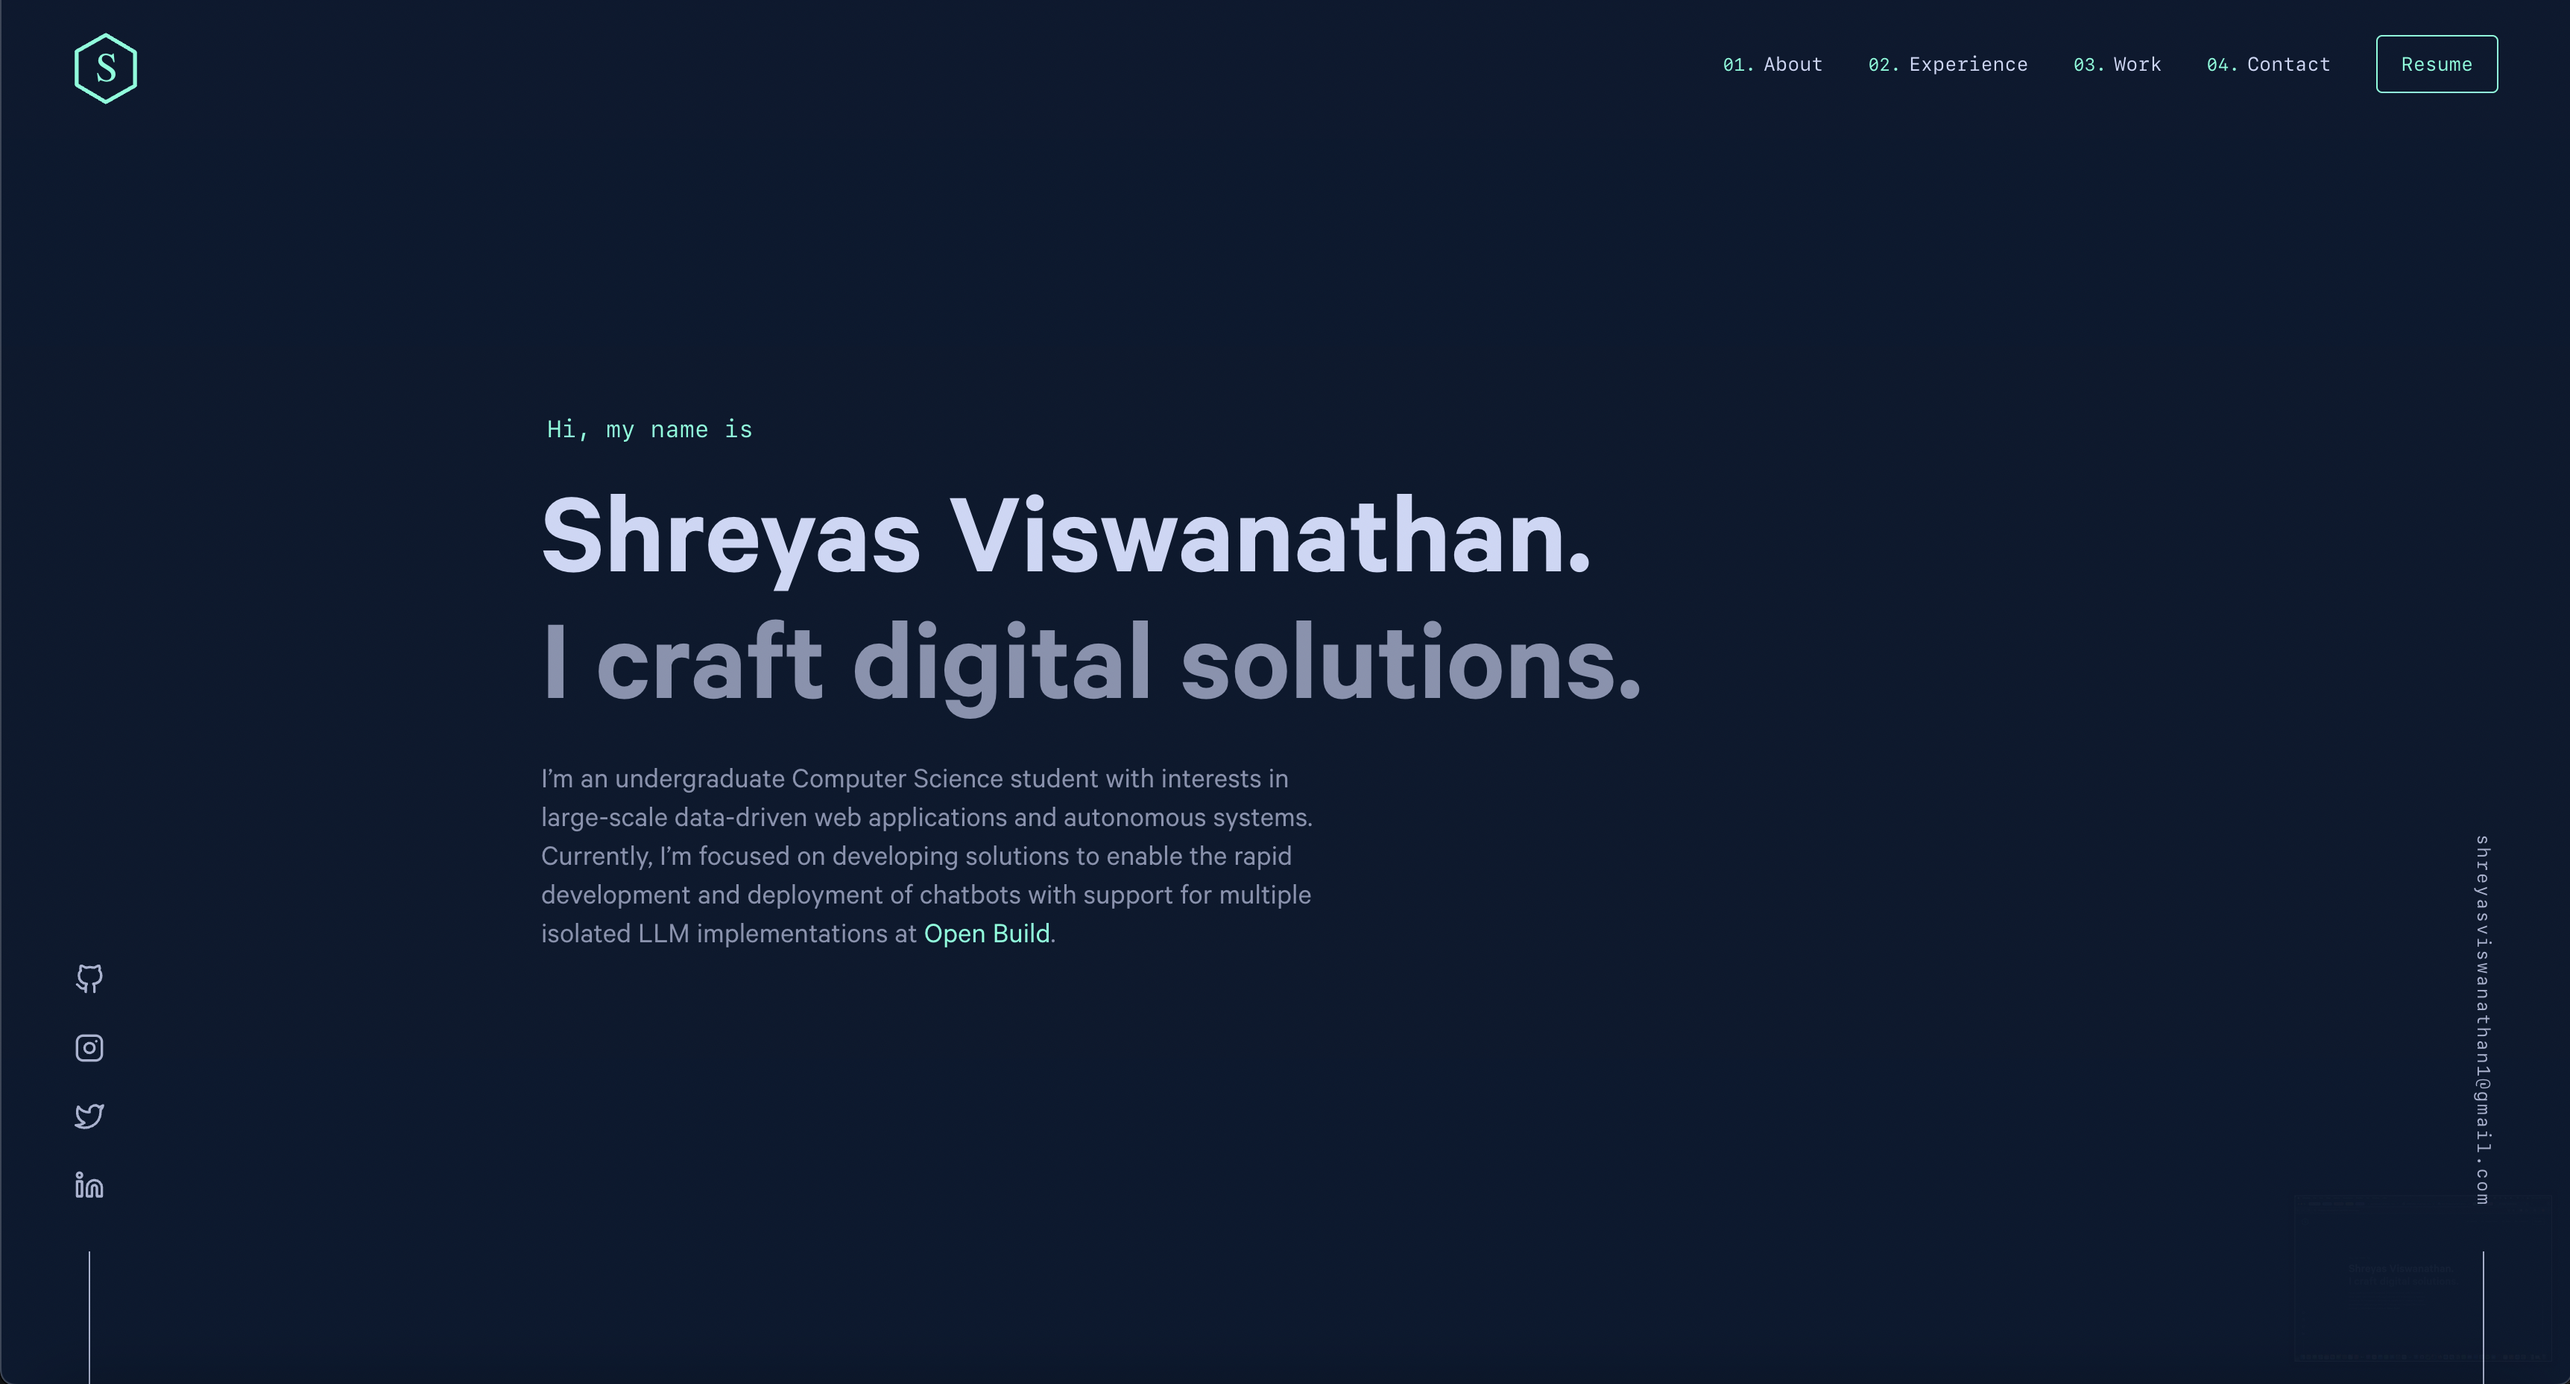
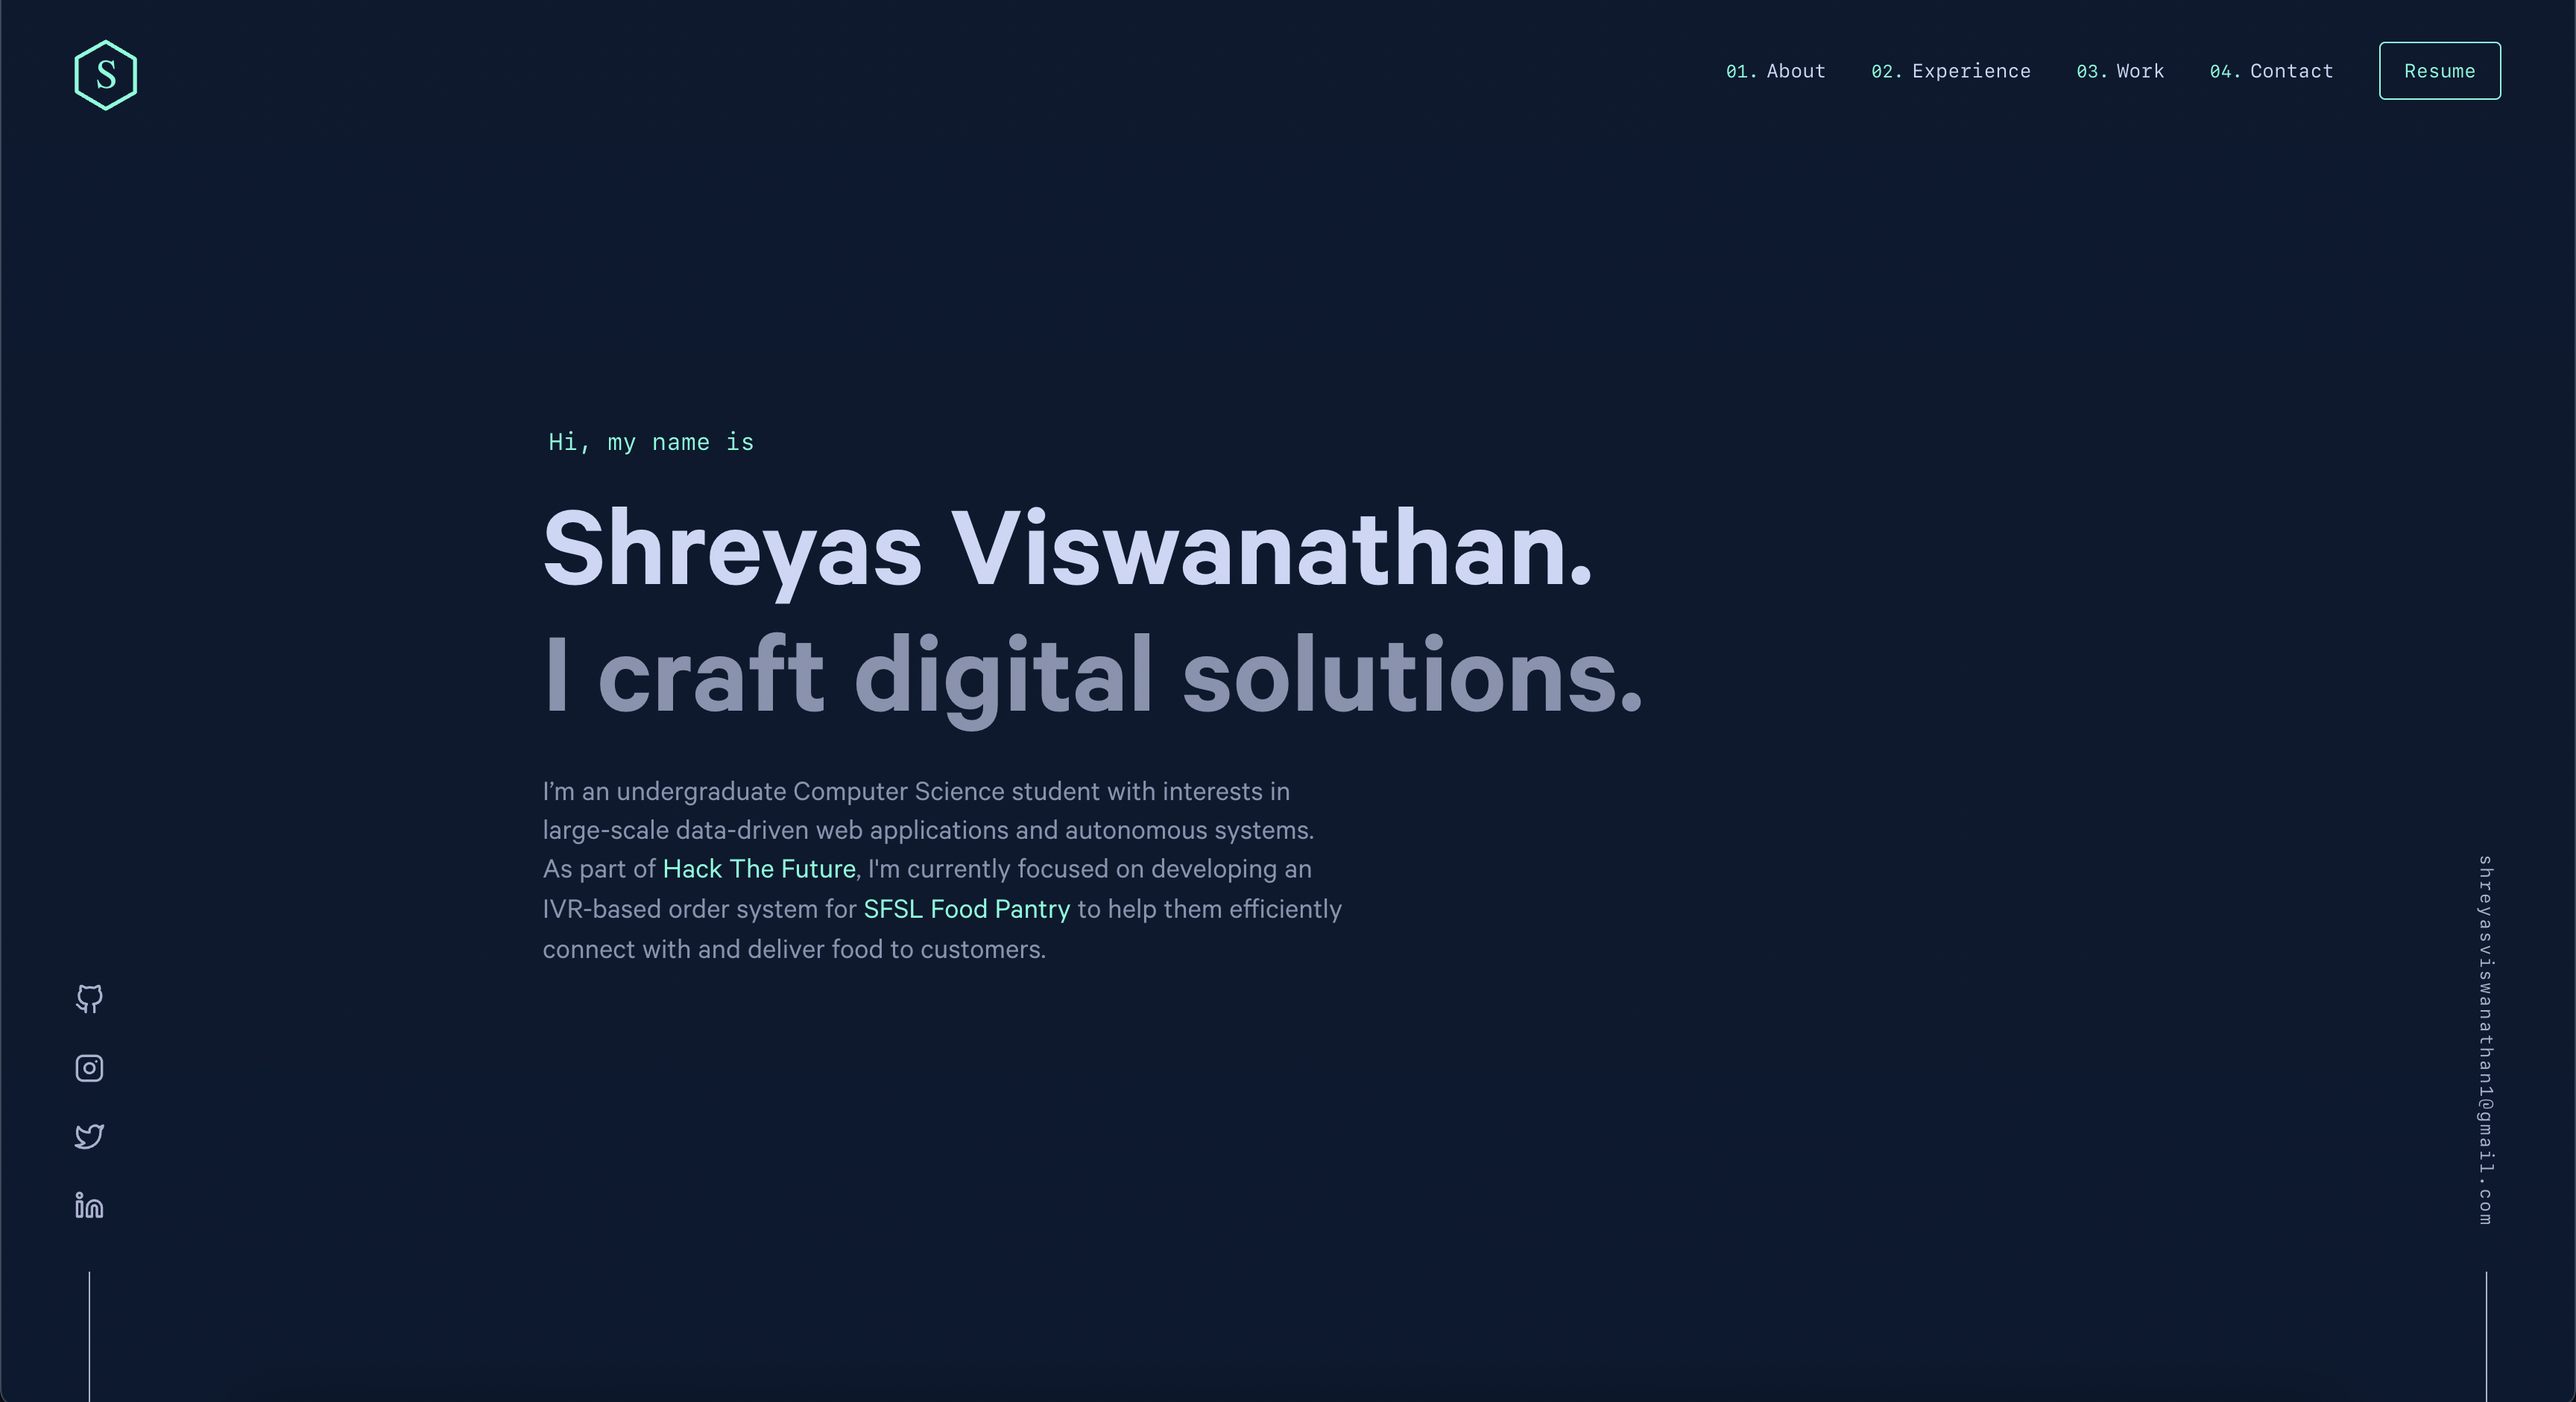
update readme app img and hero section

diff --git a/src/components/sections/hero.js b/src/components/sections/hero.js
@@ -66,8 +66,15 @@ const Hero = () => {
     <>
       <p>
         I’m an undergraduate Computer Science student with interests in large-scale data-driven web
-        applications and autonomous systems. I enjoy tackling complex problems, and working towards
-        developing innovative and systemic ways to tackle them.
+        applications and autonomous systems. As part of{' '}
+        <a href="https://htfpurdue.org/" target="_blank" rel="noreferrer">
+          Hack The Future
+        </a>
+        , I'm currently focused on developing an IVR-based order system for{' '}
+        <a href="https://www.sharefoodsharelove.org/" target="_blank" rel="noreferrer">
+          SFSL Food Pantry
+        </a>{' '}
+        to help them efficiently connect with and deliver food to customers.
       </p>
     </>
   );
